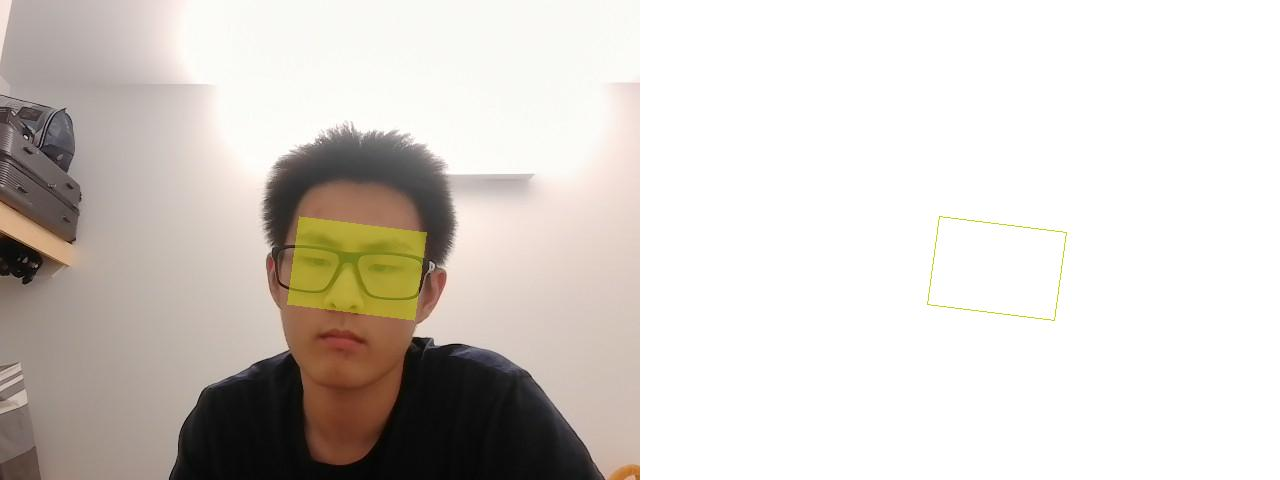
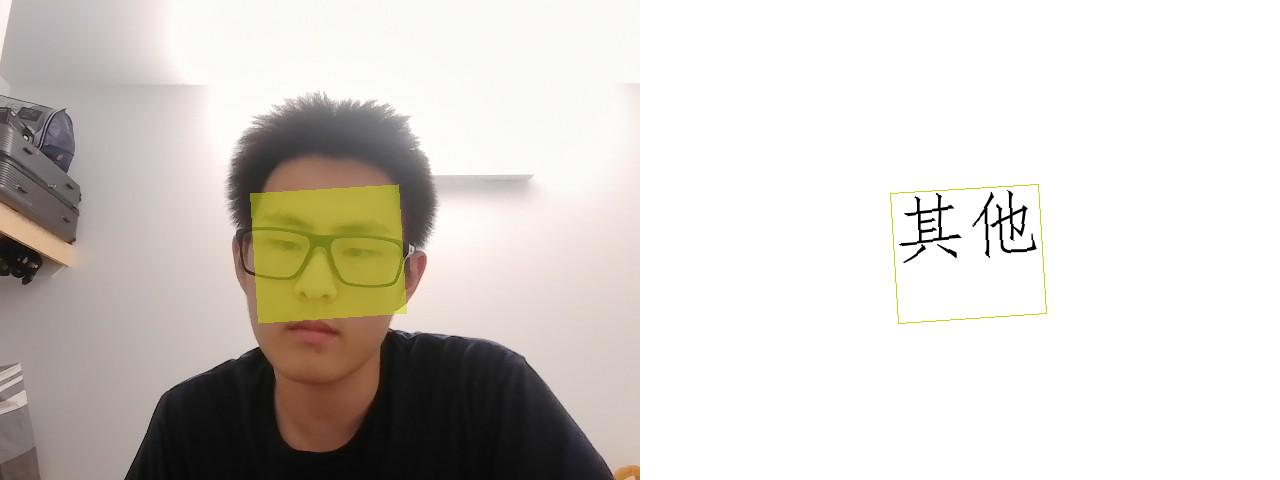
Batch translations to improve performance + added back in ctrl + c

diff --git a/ImageRecognitionAI.py b/ImageRecognitionAI.py
@@ -5,6 +5,8 @@ import time
 import threading 
 from concurrent.futures import ThreadPoolExecutor, wait, FIRST_EXCEPTION 
 import os # Only needed for testing purposes 
+
+os.makedirs("output", exist_ok=True) 
  
 # Switch to PP-OCRv5 mobile models 
 ocr = PaddleOCR( 
@@ -34,9 +36,8 @@ ocr_result = None
 frame_lock = threading.Lock() 
 ocr_lock = threading.Lock() 
  
-running = True 
- 
-os.makedirs("output", exist_ok=True) 
+running = threading.Event()
+running.set()
  
 # Reads the current frame of the video 
 def video_capture(cap, interval): 
@@ -109,19 +110,18 @@ def translate(tokenizer, model):
         texts = list(result[0]["rec_texts"]) 
  
         # Translating 
-        for i, text in enumerate(texts): 
-            inputs = tokenizer(text, return_tensors="pt").to(model.device) 
- 
-            translated_tokens = model.generate( 
-                **inputs,  
-                forced_bos_token_id=tokenizer.convert_tokens_to_ids("zho_Hans"),  
-                max_length=50, 
-                ) 
- 
-            # Translating the texts  
-            texts[i] = tokenizer.batch_decode( 
-                translated_tokens,  
-                skip_special_tokens=True)[0] 
+        batch_size = 16
+        translated = []
+        for start in range(0, len(texts), batch_size):
+            chunk = texts[start:start + batch_size]
+            inputs = tokenizer(chunk, return_tensors="pt", padding=True, truncation=True).to(model.device)
+            out = model.generate(
+                **inputs,
+                forced_bos_token_id=tokenizer.convert_tokens_to_ids("zho_Hans"),
+                max_length=50,
+            )
+            translated.extend(tokenizer.batch_decode(out, skip_special_tokens=True))
+        texts = translated
  
         result[0]["rec_texts"] = texts 
  
@@ -133,19 +133,24 @@ def translate(tokenizer, model):
         time.sleep(0.1) 
  
  
-# Running everything 
-with ThreadPoolExecutor(max_workers=3) as executor: 
-    print("Start execution") 
-    capture_future = executor.submit(video_capture, cap, 1) 
-    predict_future = executor.submit(ocr_predict, ocr) 
-    translate_future = executor.submit(translate, tokenizer, model) 
- 
-    done, _ = wait([capture_future, predict_future, translate_future], return_when=FIRST_EXCEPTION) 
-    running = False 
-    for future in done: 
-        future.result() 
- 
-         
-## When everything done, release the capture 
-cap.release() 
-cv.destroyAllWindows()
+threads = [
+    threading.Thread(target=video_capture, args=(cap, 1), daemon=True),
+    threading.Thread(target=ocr_predict, args=(ocr,), daemon=True),
+    threading.Thread(target=translate, args=(tokenizer, model), daemon=True),
+]
+
+print("Start execution")
+for t in threads:
+    t.start()
+
+try:
+    while running.is_set():
+        time.sleep(0.2)
+except KeyboardInterrupt:
+    pass
+finally:
+    running.clear()
+    for t in threads:
+        t.join(timeout=5)
+    cap.release()
+    cv.destroyAllWindows()
